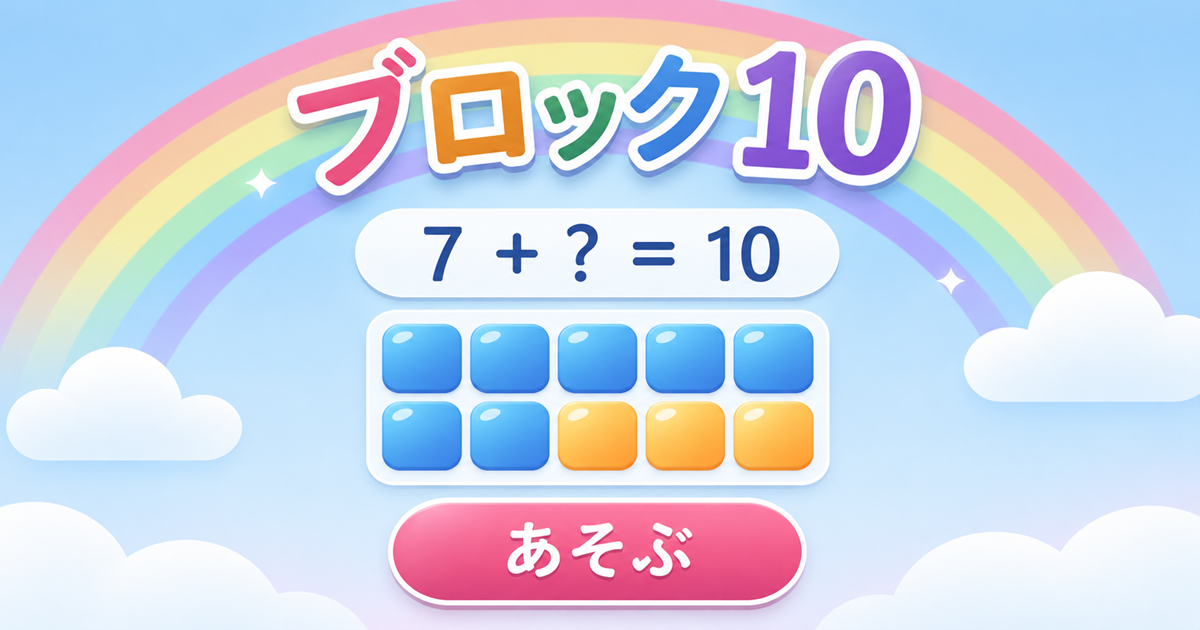
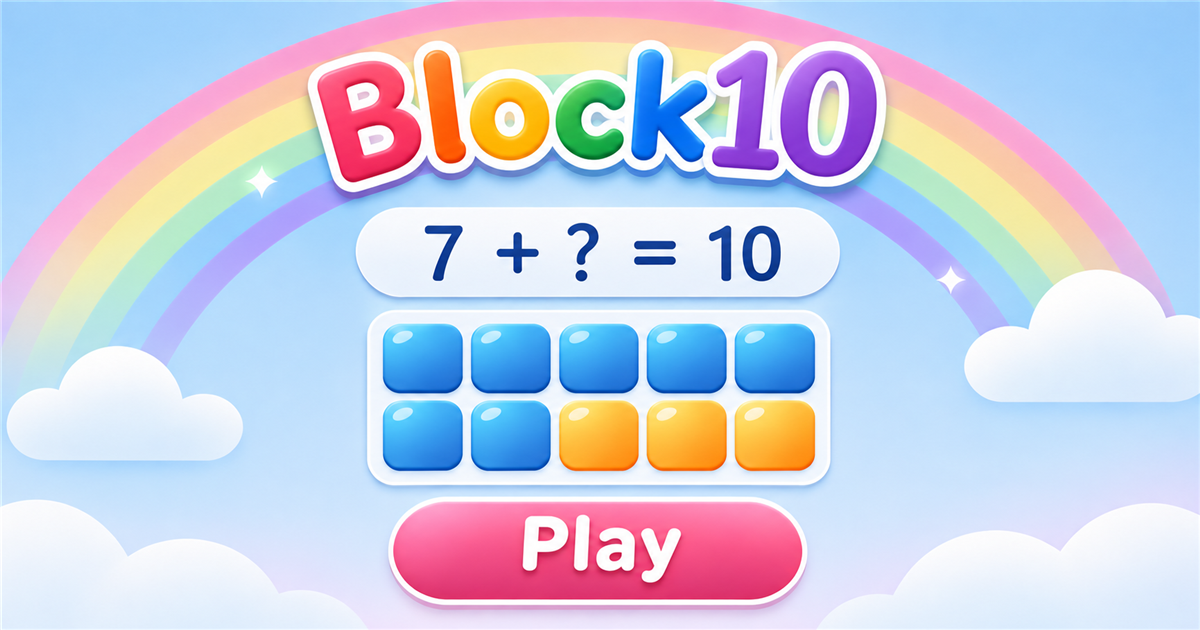
Unify Block10 branding across languages

diff --git a/index.html b/index.html
@@ -4,24 +4,24 @@
     <meta charset="UTF-8">
     <meta name="viewport" content="width=device-width, initial-scale=1, maximum-scale=1, user-scalable=no, viewport-fit=cover">
     <meta name="theme-color" content="#83d7ff">
-    <meta name="apple-mobile-web-app-title" content="Block 10">
+    <meta name="apple-mobile-web-app-title" content="Block10">
     <meta name="description" content="A math game that builds number skills through play.">
-    <meta property="og:title" content="Block 10 | Play with Addition and Subtraction">
+    <meta property="og:title" content="Block10">
     <meta property="og:description" content="A math game that builds number skills through play.">
     <meta property="og:type" content="website">
     <link rel="canonical" href="https://akiplaylab.github.io/block10/">
     <meta property="og:url" content="https://akiplaylab.github.io/block10/">
-    <meta property="og:image" content="https://akiplaylab.github.io/block10/ogp.en.png">
+    <meta property="og:image" content="https://akiplaylab.github.io/block10/ogp.png">
     <meta property="og:image:width" content="1200">
     <meta property="og:image:height" content="630">
-    <meta property="og:image:alt" content="Block 10 above 7 + ? = 10, seven blue blocks, three orange blocks, and a pink Play button">
+    <meta property="og:image:alt" content="Block10 above 7 + ? = 10, seven blue blocks, three orange blocks, and a pink Play button">
     <meta name="twitter:card" content="summary_large_image">
-    <meta name="twitter:title" content="Block 10 | Play with Addition and Subtraction">
+    <meta name="twitter:title" content="Block10">
     <meta name="twitter:description" content="A math game that builds number skills through play.">
-    <meta name="twitter:image" content="https://akiplaylab.github.io/block10/ogp.en.png">
+    <meta name="twitter:image" content="https://akiplaylab.github.io/block10/ogp.png">
     <link rel="icon" type="image/x-icon" sizes="16x16 32x32 48x48" href="/favicon.ico">
     <link rel="apple-touch-icon" sizes="180x180" href="/apple-touch-icon.png">
-    <title>Block 10 | Play with Addition and Subtraction</title>
+    <title>Block10</title>
   </head>
   <body>
     <div class="scenery" aria-hidden="true">
@@ -43,7 +43,7 @@
     </header>
     <main>
       <section id="title" class="title-screen">
-        <h1 class="logo" aria-label="Block 10" data-label="brand">
+        <h1 class="logo" aria-label="Block10">
           <span aria-hidden="true">B</span><span aria-hidden="true">l</span><span aria-hidden="true">o</span><span aria-hidden="true">ck</span><strong aria-hidden="true">10</strong>
         </h1>
         <div class="main-mode">
@@ -63,7 +63,7 @@
           </div>
         </div>
       </section>
-      <section id="game" class="game-screen complement" aria-label="Block 10" data-label="brand" hidden>
+      <section id="game" class="game-screen complement" aria-label="Block10" hidden>
         <div class="equation" aria-live="polite" aria-atomic="true">
           <span id="first"></span> <span id="operator"></span> <span id="second"></span> <span data-operator="="></span> <span id="answer">?</span>
         </div>
@@ -129,7 +129,7 @@
         <svg aria-hidden="true" viewBox="0 0 24 24" width="20" height="20" fill="none" stroke="currentColor" stroke-width="2" stroke-linecap="round">
           <path d="M2 8.5a16 16 0 0 1 3-2M9 5a16 16 0 0 1 13 3.5M5 12.5a11 11 0 0 1 4-2M14 10.2a11 11 0 0 1 5 2.3M8.5 16a5.5 5.5 0 0 1 5.5-1.2M12 20h.01M3 3l18 18"/>
         </svg>
-        <span data-text="offline">You can play Block 10 offline</span>
+        <span data-text="offline">You can play Block10 offline</span>
       </p>
     </dialog>
     <dialog id="reset-settings" class="settings-dialog" aria-labelledby="reset-title" aria-describedby="reset-note">

diff --git a/src/i18n.ts b/src/i18n.ts
@@ -3,8 +3,6 @@ const en = {
   off: 'OFF',
   home: 'Home',
   settings: 'Settings',
-  brand: 'Block 10',
-  logo: 'B|l|o|ck',
   play: 'Play',
   otherModes: 'Play with other numbers',
   random: 'Random',
@@ -21,7 +19,7 @@ const en = {
   input: 'Type a number',
   close: 'Close',
   reset: 'Reset settings',
-  offline: 'You can play Block 10 offline',
+  offline: 'You can play Block10 offline',
   resetTitle: 'Reset settings?',
   resetNote: 'Your play history stays.',
   no: 'No',
@@ -29,7 +27,6 @@ const en = {
   editorTitle: 'Choose numbers to play with',
   editorEmpty: 'Close with no numbers selected to go back to 5 and 10.',
   language: 'Language',
-  title: 'Block 10 | Play with Addition and Subtraction',
   keypad: 'Number pad',
   removeBlocks: 'Blocks to take away',
   answerChoices: 'Answer choices',
@@ -58,8 +55,6 @@ const ja: Partial<Record<keyof typeof en, string>> = {
   off: 'オフ',
   home: 'ホーム',
   settings: 'せってい',
-  brand: 'ブロック 10',
-  logo: 'ブ|ロ|ッ|ク',
   play: 'あそぶ',
   otherModes: 'ほかの かずで あそぶ',
   random: 'ランダム',
@@ -76,7 +71,7 @@ const ja: Partial<Record<keyof typeof en, string>> = {
   input: '数字を入力する',
   close: 'とじる',
   reset: 'はじめの せっていに もどす',
-  offline: 'ブロック10は インターネットが なくても あそべます',
+  offline: 'Block10 は インターネットが なくても あそべます',
   resetTitle: 'はじめの せっていに もどす？',
   resetNote: 'あそんだ きろくは きえないよ。',
   no: 'いいえ',
@@ -84,7 +79,6 @@ const ja: Partial<Record<keyof typeof en, string>> = {
   editorTitle: 'あそびたい かずを えらんでね',
   editorEmpty: 'えらばずに とじると、5 と 10 に もどるよ。',
   language: 'ことば',
-  title: 'ブロック 10 | 遊んで学ぶ足し算・引き算',
   keypad: '数字入力',
   removeBlocks: 'とるブロック',
   answerChoices: 'こたえの せんたくし',

diff --git a/src/main.ts b/src/main.ts
@@ -88,17 +88,12 @@ function showFeedback(message?: typeof feedbackMessage) {
 
 function showLanguage() {
   document.documentElement.lang = language;
-  document.title = t('title');
   languageSelect.value = language;
   document.querySelectorAll<HTMLElement>('[data-text]').forEach(node => {
     node.textContent = t(node.dataset.text as Message);
   });
   document.querySelectorAll<HTMLElement>('[data-label]').forEach(node => {
     node.setAttribute('aria-label', t(node.dataset.label as Message));
-  });
-  const logoLetters = t('logo').split('|');
-  document.querySelectorAll('.logo span').forEach((letter, index) => {
-    letter.textContent = logoLetters[index];
   });
   randomCard.lastElementChild!.setAttribute('aria-label', t('editRandom'));
   showSound();

diff --git a/src/style.css b/src/style.css
@@ -201,7 +201,7 @@ main { position: relative; height: 100%; }
 .logo span:nth-child(2) { color: #e38106; }
 .logo span:nth-child(3) { color: #228e64; }
 .logo span:nth-child(4) { color: #147fce; transform: rotate(4deg); }
-.logo strong { color: #8c49cf; font-size: 1.35em; margin-left: .09em; }
+.logo strong { color: #8c49cf; font-size: 1.35em; margin-left: .025em; }
 
 .primary {
   padding: .1em 1.25em;

diff --git a/build/pages-offline.ts b/build/pages-offline.ts
@@ -34,8 +34,8 @@ export function pagesOffline(test: boolean): Plugin {
         id: config.base,
         start_url: config.base,
         scope: config.base,
-        name: 'Block 10',
-        short_name: 'Block 10',
+        name: 'Block10',
+        short_name: 'Block10',
         lang: 'en',
         display: 'standalone',
         theme_color: '#83d7ff',

diff --git a/docs/UserGuide.md b/docs/UserGuide.md
@@ -4,7 +4,7 @@
 
 ## How to play
 
-[Open Block 10](https://akiplaylab.github.io/block10/) and press **Play** to start with 10. Under **Play with other numbers**, choose a favorite number card or **Random**.
+[Open Block10](https://akiplaylab.github.io/block10/) and press **Play** to start with 10. Under **Play with other numbers**, choose a favorite number card or **Random**.
 
 Find the number that goes in the **?**. In `7 + ? = 10`, work out how many to add to 7 to make 10. In `10 − ? = 7`, work out how many to take away from 10 to leave 7.
 
@@ -18,7 +18,7 @@ If you make a mistake, you can try the same problem again. Press **Next** when i
 
 Press the gear button to open **Settings**. On the home screen, choose **Add** or **Subtract** under **Math**. You can change **How to answer** and turn sound on or off while playing.
 
-Under **Language**, choose **English** or **日本語**. Your choice takes effect right away and is remembered next time. On your first visit, Block 10 uses Japanese if your browser language is Japanese and English otherwise.
+Under **Language**, choose **English** or **日本語**. Your choice takes effect right away and is remembered next time. On your first visit, Block10 uses Japanese if your browser language is Japanese and English otherwise.
 
 To change a favorite number or the numbers used in **Random**, press the edit button on its card on the home screen. You can choose one to three numbers for **Random**.
 
@@ -29,4 +29,4 @@ Choose **Reset settings** from **Settings** on the home screen to restore the ga
 - On iPad or iPhone, open the Share menu in Safari and choose **Add to Home Screen**. If **Open as Web App** appears, turn it on.
 - On Windows, choose **Apps** and then **Install this site as an app** in Microsoft Edge.
 
-To play offline, open Block 10 once while connected to the internet. When **You can play Block 10 offline** appears in **Settings**, you can play in either language without an internet connection.
+To play offline, open Block10 once while connected to the internet. When **You can play Block10 offline** appears in **Settings**, you can play in either language without an internet connection.

diff --git a/docs/UserGuide.ja.md b/docs/UserGuide.ja.md
@@ -4,7 +4,7 @@
 
 ## 遊び方
 
-[ブロック 10 を開き](https://akiplaylab.github.io/block10/)、「あそぶ」を押すと 10 を使った問題が始まります。「ほかの かずで あそぶ」では、好きな数のカードや「ランダム」を選べます。
+[Block10 を開き](https://akiplaylab.github.io/block10/)、「あそぶ」を押すと 10 を使った問題が始まります。「ほかの かずで あそぶ」では、好きな数のカードや「ランダム」を選べます。
 
 式の「?」に入る数を答えます。たとえば `7 + ? = 10` では 7 にいくつ足すと 10 になるか、`10 − ? = 7` では 10 からいくつ取ると 7 が残るかを考えます。
 
@@ -29,4 +29,4 @@
 - iPad・iPhone では Safari の共有メニューから「ホーム画面に追加」を選びます。「Webアプリとして開く」が表示される場合はオンにします。
 - Windows では Microsoft Edge の「アプリ」から「このサイトをアプリとしてインストール」を選びます。
 
-オフラインで遊ぶには、インターネットにつないで一度起動します。「せってい」の下に「ブロック10は インターネットが なくても あそべます」と表示されたら、どちらの言語でもオフラインで遊べます。
+オフラインで遊ぶには、インターネットにつないで一度起動します。「せってい」の下に「Block10 は インターネットが なくても あそべます」と表示されたら、どちらの言語でもオフラインで遊べます。

diff --git a/docs/Philosophy.ja.md b/docs/Philosophy.ja.md
@@ -10,3 +10,4 @@ Block10 は、学習者の理解と計算力を伸ばすための無料の教育
 - 難易度を上げることや学習時間を延ばすこと自体を目的とせず、出題範囲を広げるよりも、今の範囲での学習体験を充実させます。設定や操作をシンプルに保ち、学習者と保護者の双方の認知負荷を抑えます。
 - 学習データは、学習者本人や保護者が学習経験を振り返るために活用します。将来の統計画面では回答数などの学習量を中心に示し、正答率や不正答数による評価は行いません。
 - 合計が 20 までの数の組み合わせや、10 のまとまり、繰り上がりを学び、Block10 の外でも自分で楽しく学び続けるための土台をつくります。利用者の時間と自主性を尊重し、十分な計算力が身について Block10 から卒業することも成功と考えます。
+- 多言語対応を進めながら、言語への依存そのものも減らします。数字、色、図形、記号を活用し、使う言語や読解力にかかわらず直感的に理解できる設計を目指します。翻訳なしで伝わる設計を優先します。

diff --git a/docs/Philosophy.md b/docs/Philosophy.md
@@ -10,3 +10,4 @@ Block10 is a free educational tool that helps learners deepen their understandin
 - We focus on improving the learning experience within the current range of problems. Making the game harder, extending sessions, or expanding the range are secondary to that goal. Simple settings and controls reduce the mental effort required from learners and their parents or caregivers.
 - Learners and their parents or caregivers can use learning data to reflect on practice. A future statistics screen will focus on how much learners have practiced, such as the number of answers given, and will avoid grading them by accuracy or number of mistakes.
 - Working with number combinations up to 20, groups of ten, and carrying builds a foundation for learners to enjoy learning on their own beyond Block10. We respect each learner's time and independence. Building enough skill to move on from Block10 is a success in its own right.
+- As we support more languages, we also work to make the game less dependent on language. We use numbers, colors, shapes, and symbols to help learners understand the game intuitively, whatever language they speak or how well they read. We prioritize designs that make sense without translation.

diff --git a/docs/Specification.md b/docs/Specification.md
@@ -34,6 +34,11 @@
 - 表示言語と HTML の `lang` 属性を同期します。翻訳リソースはゲームロジックから分離し、オフラインで両言語を利用できるようにします。
 - README・教育理念・利用ガイドは英語版と日本語版を提供し、原則として同じ PR で両言語を更新します。
 
+## アプリ名と OGP 画像
+
+- 正式なアプリ名はすべての言語で Block10 とします。アプリ内タイトル、ブラウザーのタイトル、OGP タイトル、PWA Manifest の名称と短縮名、iOS のホーム画面追加用の名称、両言語の README のタイトルに使用します。
+- SNS メタデータと両言語の README は、共通の OGP 画像（`public/ogp.png`）を参照します。画像内には Block10、Play、数式を表示します。
+
 ## オフラインと更新
 
 - 初回の準備完了後はオフラインでも利用できます。

diff --git a/README.ja.md b/README.ja.md
@@ -1,12 +1,12 @@
-# ブロック 10
+# Block10
 
 [English](README.md) | [日本語](README.ja.md)
 
-ブロック 10 は、数の組み合わせを楽しく学び、計算力の土台をつくる足し算・引き算ゲームです。
+Block10 は、数の組み合わせを楽しく学び、計算力の土台をつくる足し算・引き算ゲームです。
 
-[![ブロック10であそぶ。虹の下に「7 + ? = 10」の式と青7個・オレンジ3個のブロック](public/ogp.png)](https://akiplaylab.github.io/block10/)
+[![Block10 であそぶ。虹の下に「7 + ? = 10」の式と青7個・オレンジ3個のブロック](public/ogp.png)](https://akiplaylab.github.io/block10/)
 
-**[ブロック 10 であそぶ](https://akiplaylab.github.io/block10/)**
+**[Block10 であそぶ](https://akiplaylab.github.io/block10/)**
 
 ## ドキュメント
 

diff --git a/README.md b/README.md
@@ -1,12 +1,12 @@
-# Block 10
+# Block10
 
 [English](README.md) | [日本語](README.ja.md)
 
-Block 10 is an addition and subtraction game that helps kids build number skills through play.
+Block10 is an addition and subtraction game that helps kids build number skills through play.
 
-[![Play Block 10. Under a rainbow, 7 + ? = 10 appears above seven blue blocks and three orange blocks.](public/ogp.en.png)](https://akiplaylab.github.io/block10/)
+[![Play Block10. Under a rainbow, 7 + ? = 10 appears above seven blue blocks and three orange blocks.](public/ogp.png)](https://akiplaylab.github.io/block10/)
 
-**[Play Block 10](https://akiplaylab.github.io/block10/)**
+**[Play Block10](https://akiplaylab.github.io/block10/)**
 
 ## Documentation
 
